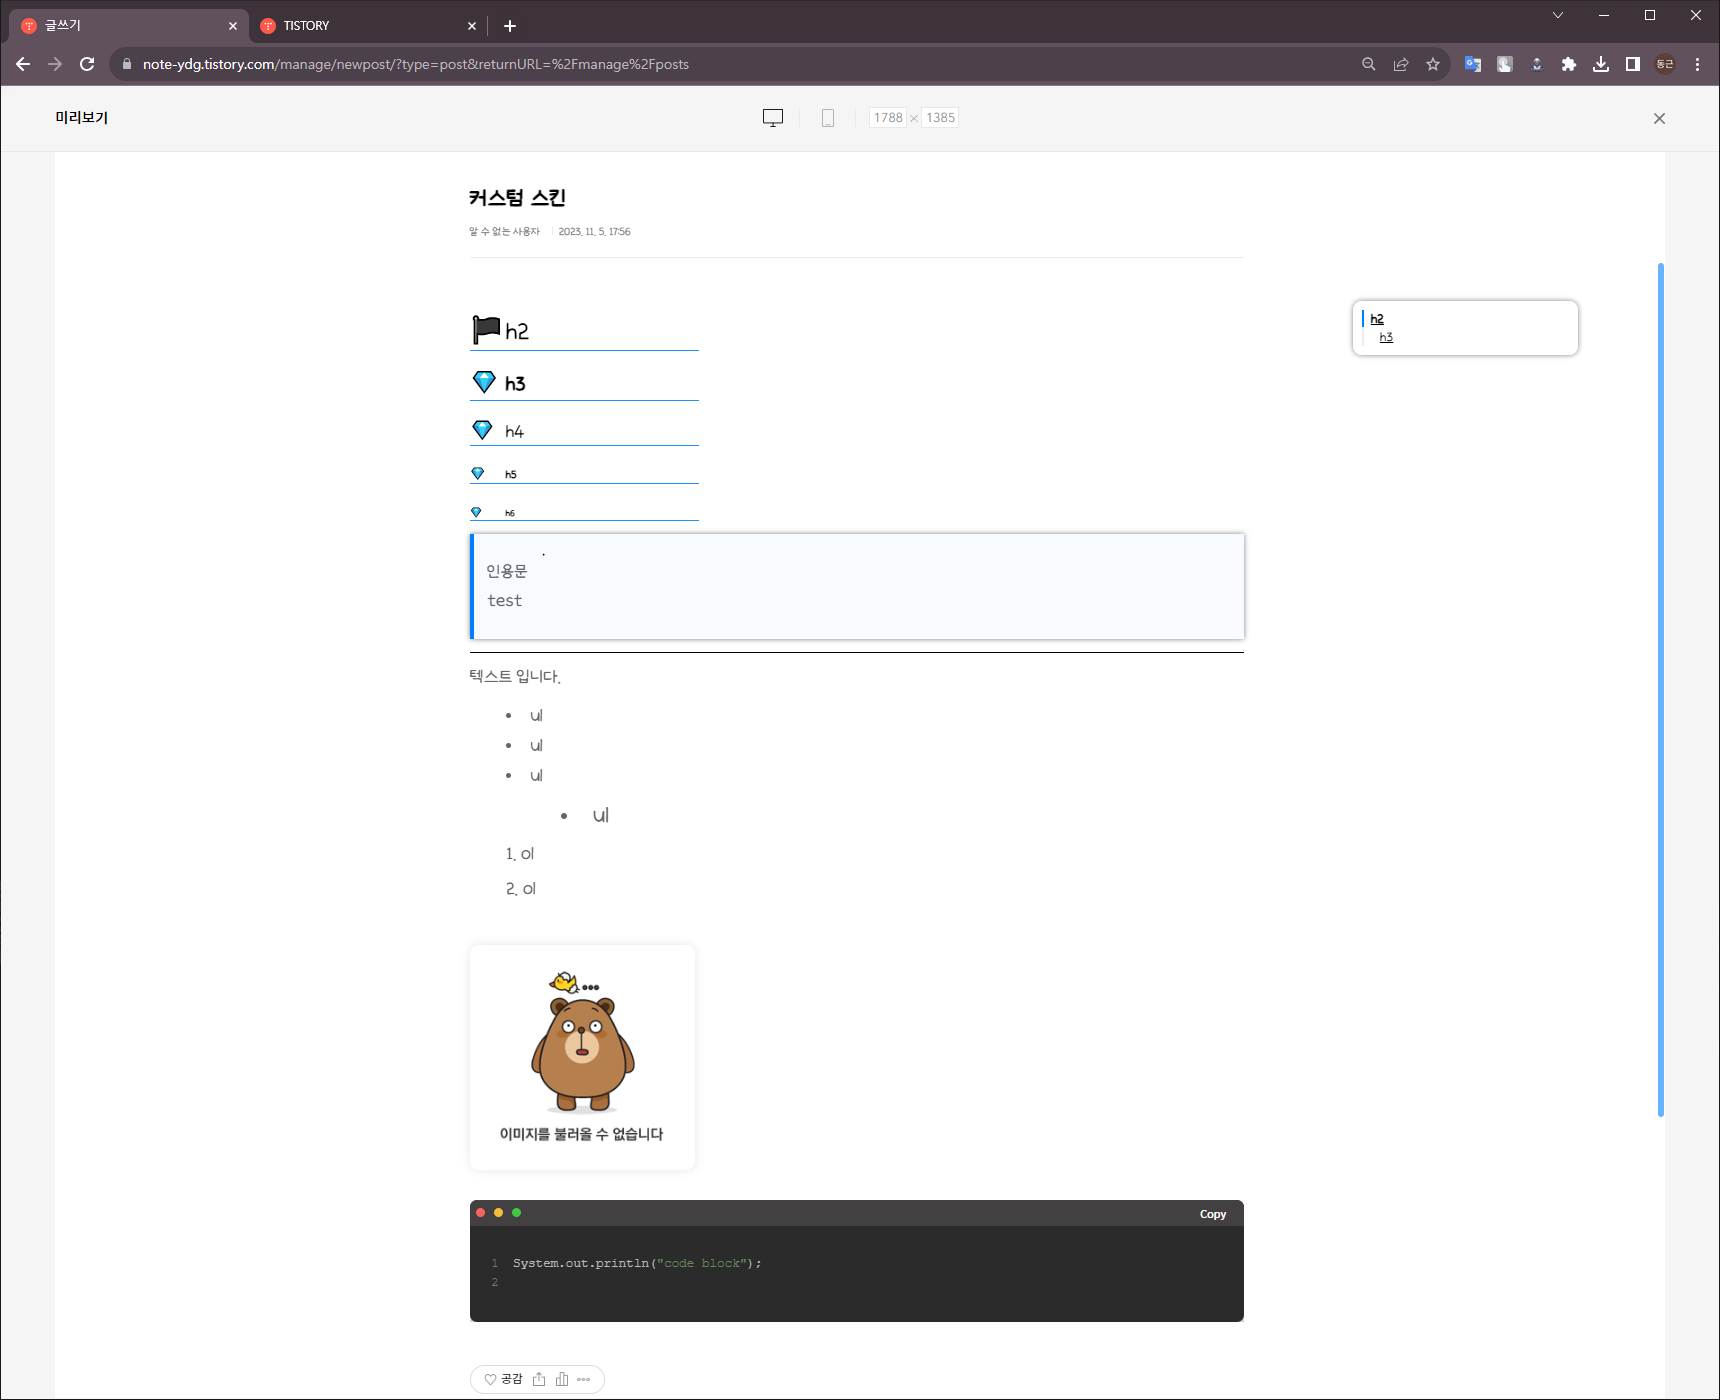
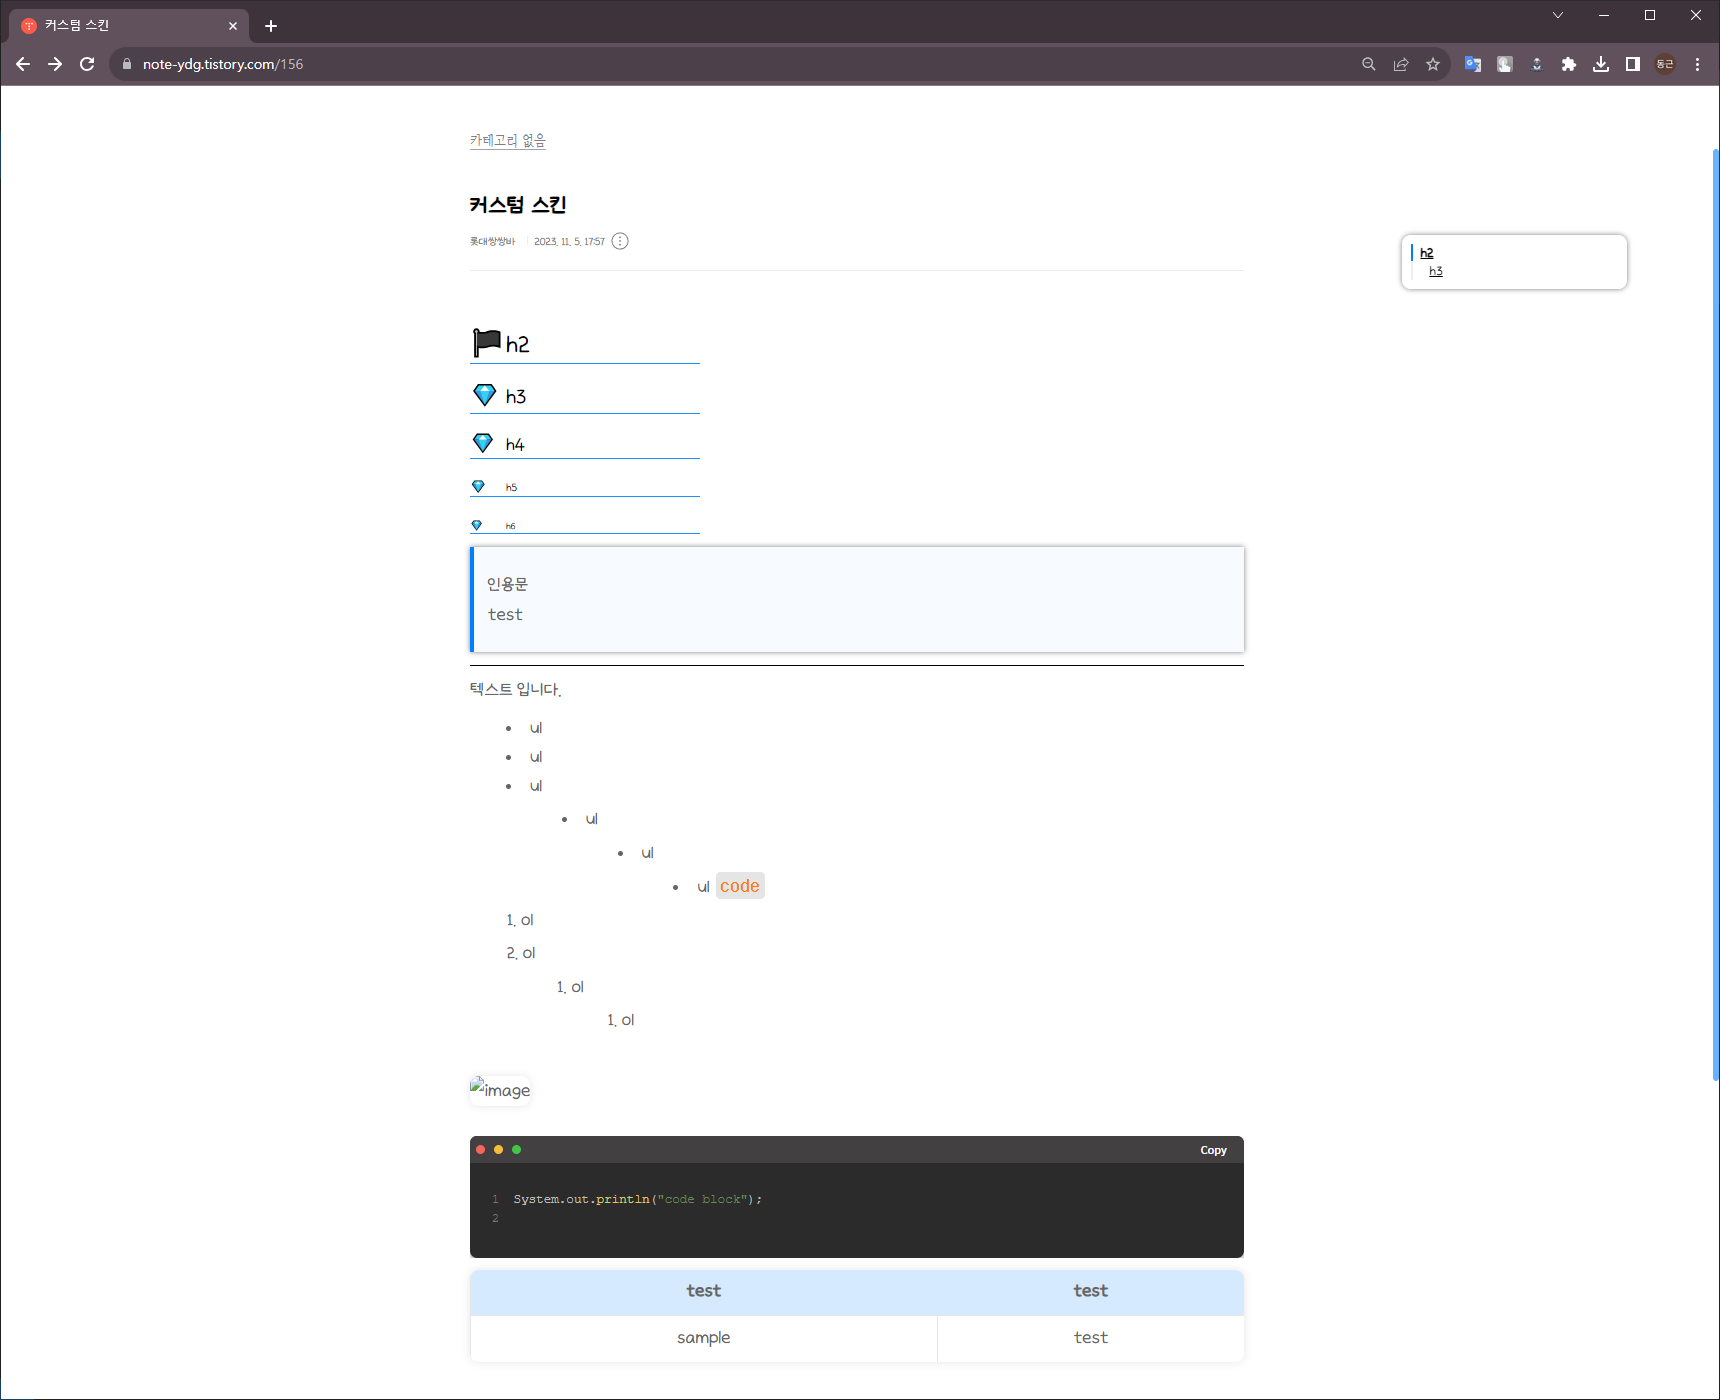
fix : bug fix

diff --git a/style.css b/style.css
@@ -441,7 +441,7 @@ hr {
 .cover-thumbnail-list ul li .thum:before {
 	content: url('./images/no-image.png');
 	position: absolute;
-	top: 50%;
+	top: 10%;
 	left: 0;
 	z-index: 0;
 	width: 100%;
@@ -650,7 +650,7 @@ hr {
 	background-color: #f6f6f6;
 }
 .cover-list ul li figure:before {
-	content: "NO IMAGE";
+	content: url('./images/no-image.png');
 	position: absolute;
 	top: 50%;
 	left: 0;
@@ -765,9 +765,9 @@ hr {
 	background-color: rgba(0,0,0,0.4);
 }
 .cover-gallery ul li a:before {
-	content: "NO IMAGE";
+	content: url('./images/no-image.png');
 	position: absolute;
-	top: 50%;
+	top: 10%;
 	left: 0;
 	z-index: 0;
 	width: 100%;
@@ -1177,9 +1177,9 @@ hr {
 	background-color: #ebebeb;
 }
 .related-articles ul li .thum:before {
-	content: "NO IMAGE";
+	content: url('./images/no-image.png');
 	position: absolute;
-	top: 50%;
+	top: 10%;
 	left: 0;
 	z-index: 0;
 	width: 100%;
@@ -1236,7 +1236,6 @@ hr {
 }
 .entry-content h3 {
 	margin: 19px 0 19px;
-	font-weight: 700;
 	font-size: 1.5em;
 }
 .entry-content h4 {
@@ -1280,7 +1279,7 @@ hr {
 .entry-content ul li {
 	position: relative;
 	padding-left: 22px;
-	font-size: 1.3em;
+	font-size: 20px;
 	line-height: 1.6;
 	color: #666;
 	list-style: inherit;
@@ -1292,7 +1291,7 @@ hr {
 .entry-content ol li {
 	position: relative;
 	padding-left: 16px;
-	font-size: 1.3em;
+	font-size: 20px;
 	margin-top: 5px;
 	margin-bottom: 5px;
 	line-height: 1.6;
@@ -2270,6 +2269,7 @@ hr {
 .contents_style h4,
 .contents_style h5,
 .contents_style h6 {
+	font-weight: 500;
 	letter-spacing: 0;
   line-height: 1.5em;
   margin-bottom: 15px;

diff --git a/README.md b/README.md
@@ -16,7 +16,3 @@
 [코드 블락 커스텀](https://guiyomi.tistory.com/132)
 [highlight.js](https://highlightjs.org/)
 [목차 만들기](https://jstar0525.tistory.com/256)
-
-## 버그
-`ol` `ul` `li` 깊이가 깊어지면 글자 크기가 점점 커집니다. `em`에서 `px`로 단위를 변경해야 해결가능합니다.
-기
